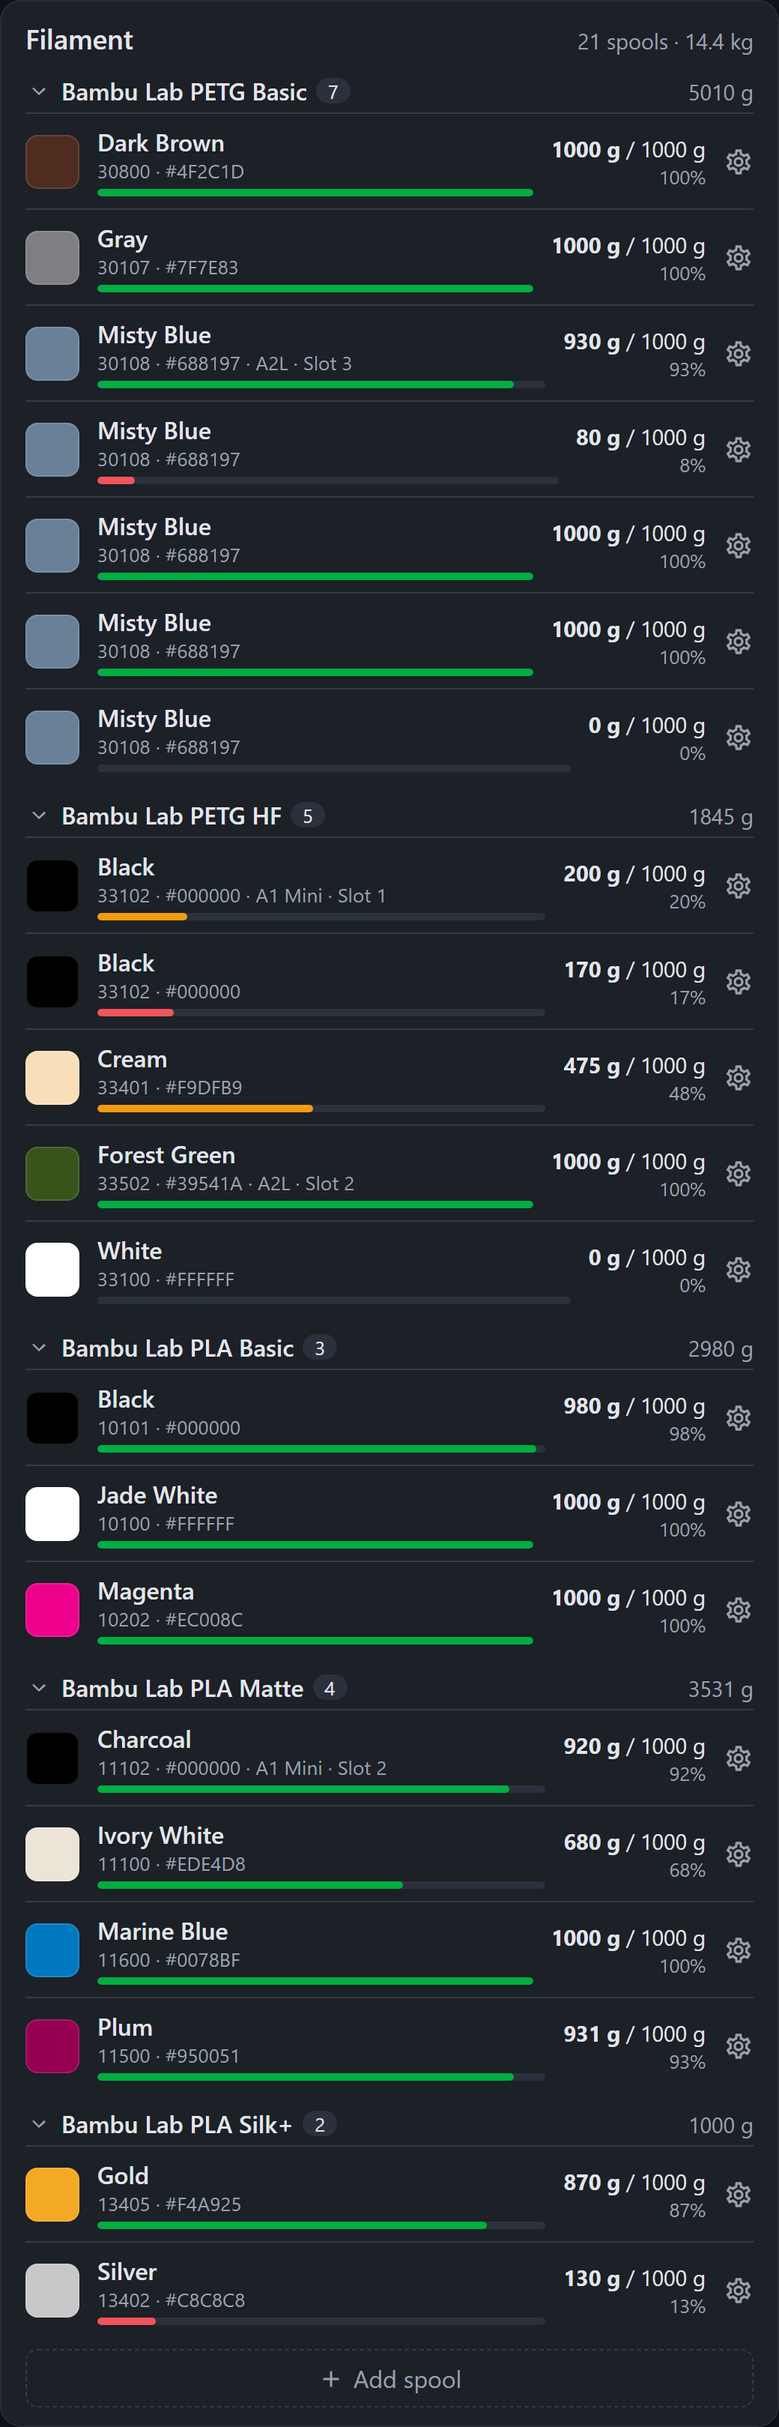
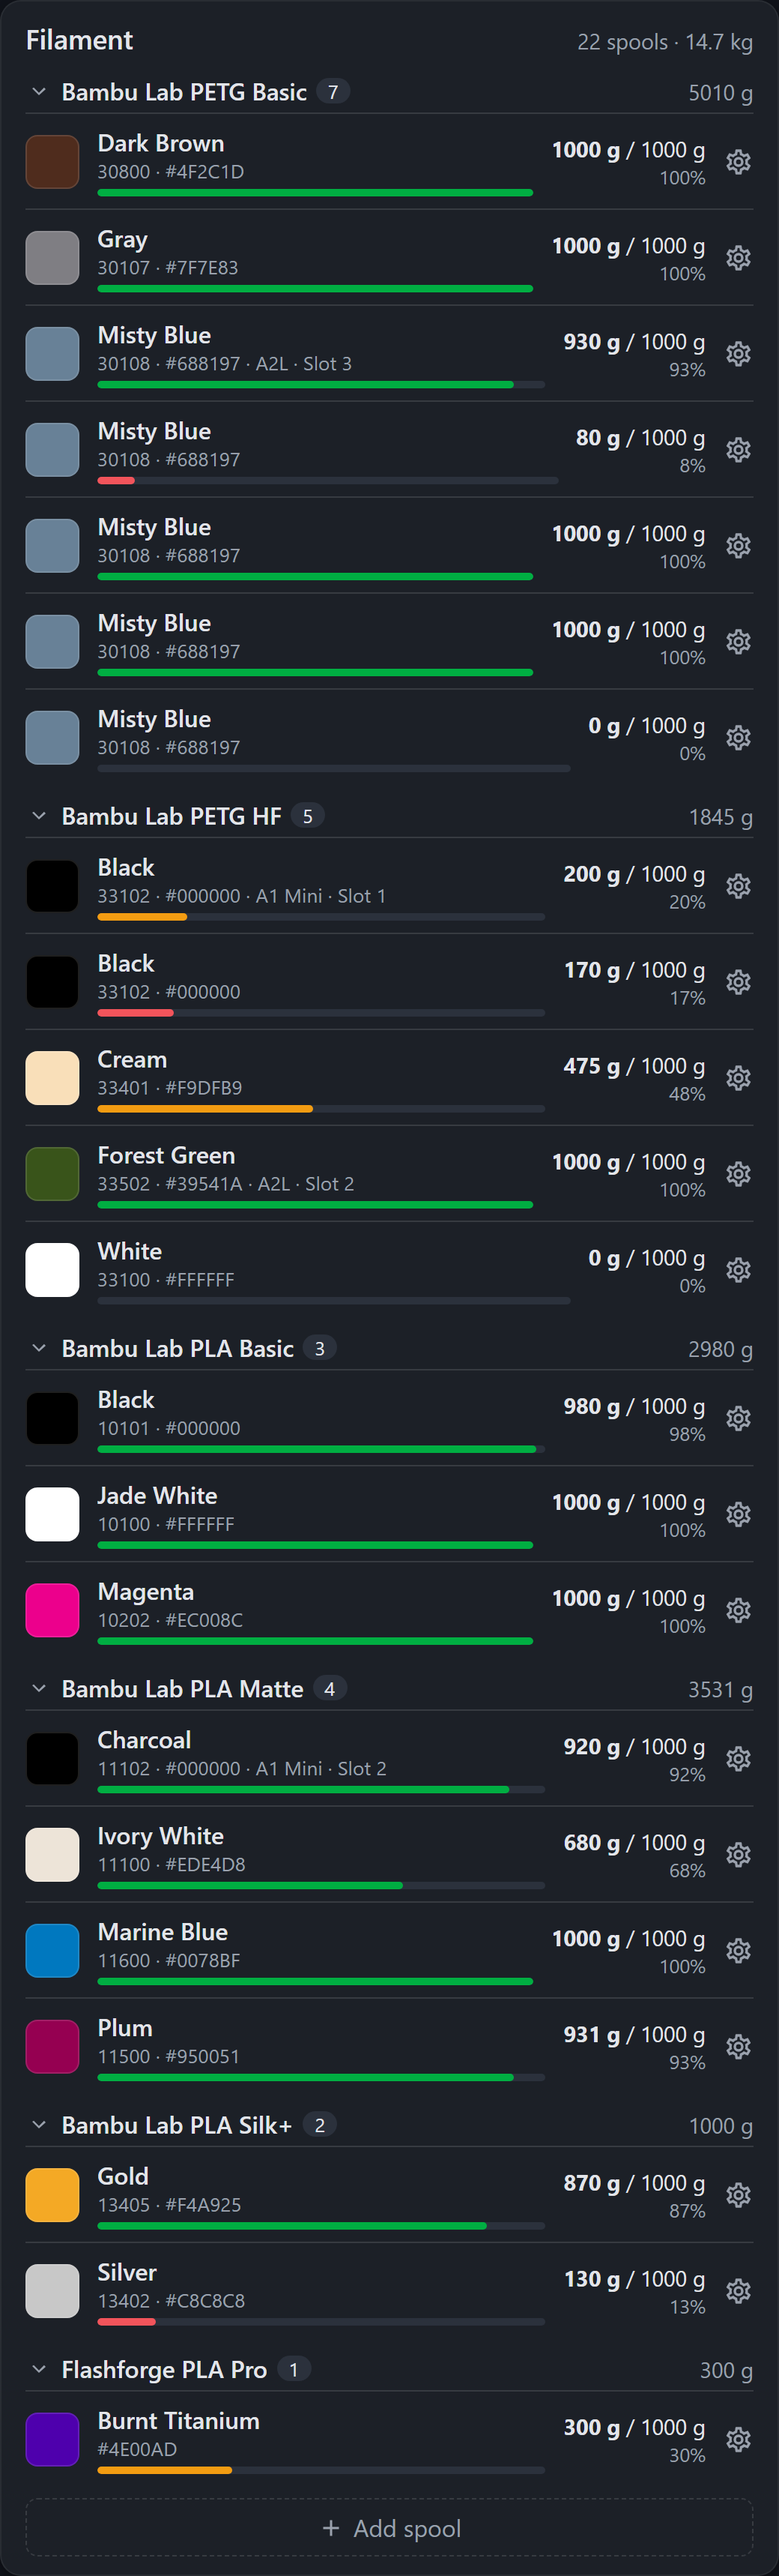
v1.1.0: refreshed README screenshots with the confirmed Studio workflow
- New Studio proof screenshot: the custom Flashforge spool under its
  own brand in the AMS picker, with the note shown as remark line.
- Screenshot harness: realistic Flashforge Burnt Titanium demo spool
  (purple-blue #4E00AD, Generic PLA profile, note filled); dialog
  shots use the purple color instead of the green default; edit-dialog
  shot targets that spool with everything prefilled.
- README: note field is surfaced as Studio remark.

Stable release approved by the user after live-testing v1.0.1-v1.0.4.

diff --git a/tools/screenshots/harness.html b/tools/screenshots/harness.html
@@ -89,6 +89,9 @@
     S(40, "Bambu Lab", "PLA", "PLA Basic", "GFA00", "#000000FF", "Black", "10101", 980, 1000),
     S(41, "Bambu Lab", "PLA", "PLA Basic", "GFA00", "#FFFFFFFF", "Jade White", "10100", 1000, 1000),
     S(42, "Bambu Lab", "PLA", "PLA Basic", "GFA00", "#EC008CFF", "Magenta", "10202", 1000, 1000),
+    S(50, "Flashforge", "PLA", "PLA Pro", "GFL99", "#4E00ADFF", null, null, 300, 1000,
+      { note: "Burnt Titanium",
+        extra: { display_name: "Burnt Titanium", create_type: "manual" } }),
   ];
 
   const byMat = {};

diff --git a/tools/screenshots/take_shots.py b/tools/screenshots/take_shots.py
@@ -42,6 +42,7 @@ with sync_playwright() as pw:
     # open the in-card add dialog and shoot the dialog box itself
     page.locator("#shot-overview .addrow").click()
     page.wait_for_timeout(200)
+    page.locator("#f-color").fill("#4e00ad")  # purple-blue, like a real spool
     page.locator(".dlg").screenshot(path=str(OUT / "card-add-dialog.png"))
     print("saved card-add-dialog.png")
     # switch to custom/third-party mode, fill it like a real Flashforge spool
@@ -53,10 +54,11 @@ with sync_playwright() as pw:
     page.wait_for_timeout(100)
     page.locator(".dlg").screenshot(path=str(OUT / "card-add-custom.png"))
     print("saved card-add-custom.png")
-    # close it and open the edit dialog via a row's cog icon
+    # close it and open the edit dialog for the Flashforge spool (prefilled
+    # custom mode, Generic PLA profile preselected, note filled)
     page.locator(".dlg-cancel").click()
     page.wait_for_timeout(100)
-    page.locator("#shot-overview .edit").first.click()
+    page.locator("#shot-overview .row").filter(has_text="Burnt Titanium").locator(".edit").click()
     page.wait_for_timeout(200)
     page.locator(".dlg").screenshot(path=str(OUT / "card-edit-dialog.png"))
     print("saved card-edit-dialog.png")

diff --git a/README.md b/README.md
@@ -139,7 +139,7 @@ only_in_printer: true
 
 <img src="https://raw.githubusercontent.com/Timmes123/ha-bambu-filaments/main/images/card-add-dialog.png" width="340" alt="In-card dialog for adding a new spool"> <img src="https://raw.githubusercontent.com/Timmes123/ha-bambu-filaments/main/images/card-add-custom.png" width="340" alt="Custom third-party brand mode of the add dialog">
 
-The result in Bambu Studio: the third-party spool appears in the AMS filament picker **under its own brand** and is assignable with the linked profile's print settings — something even Bambu's own apps can't do for custom brands:
+The result in Bambu Studio: the third-party spool appears in the AMS filament picker **under its own brand** and is assignable with the linked profile's print settings — something even Bambu's own apps can't do for custom brands. The spool's **note** shows up there too, as Studio's "remark" line:
 
 <img src="https://raw.githubusercontent.com/Timmes123/ha-bambu-filaments/main/images/studio-assign.png" width="700" alt="Bambu Studio AMS dialog listing the custom Flashforge spool under its own brand">
 
